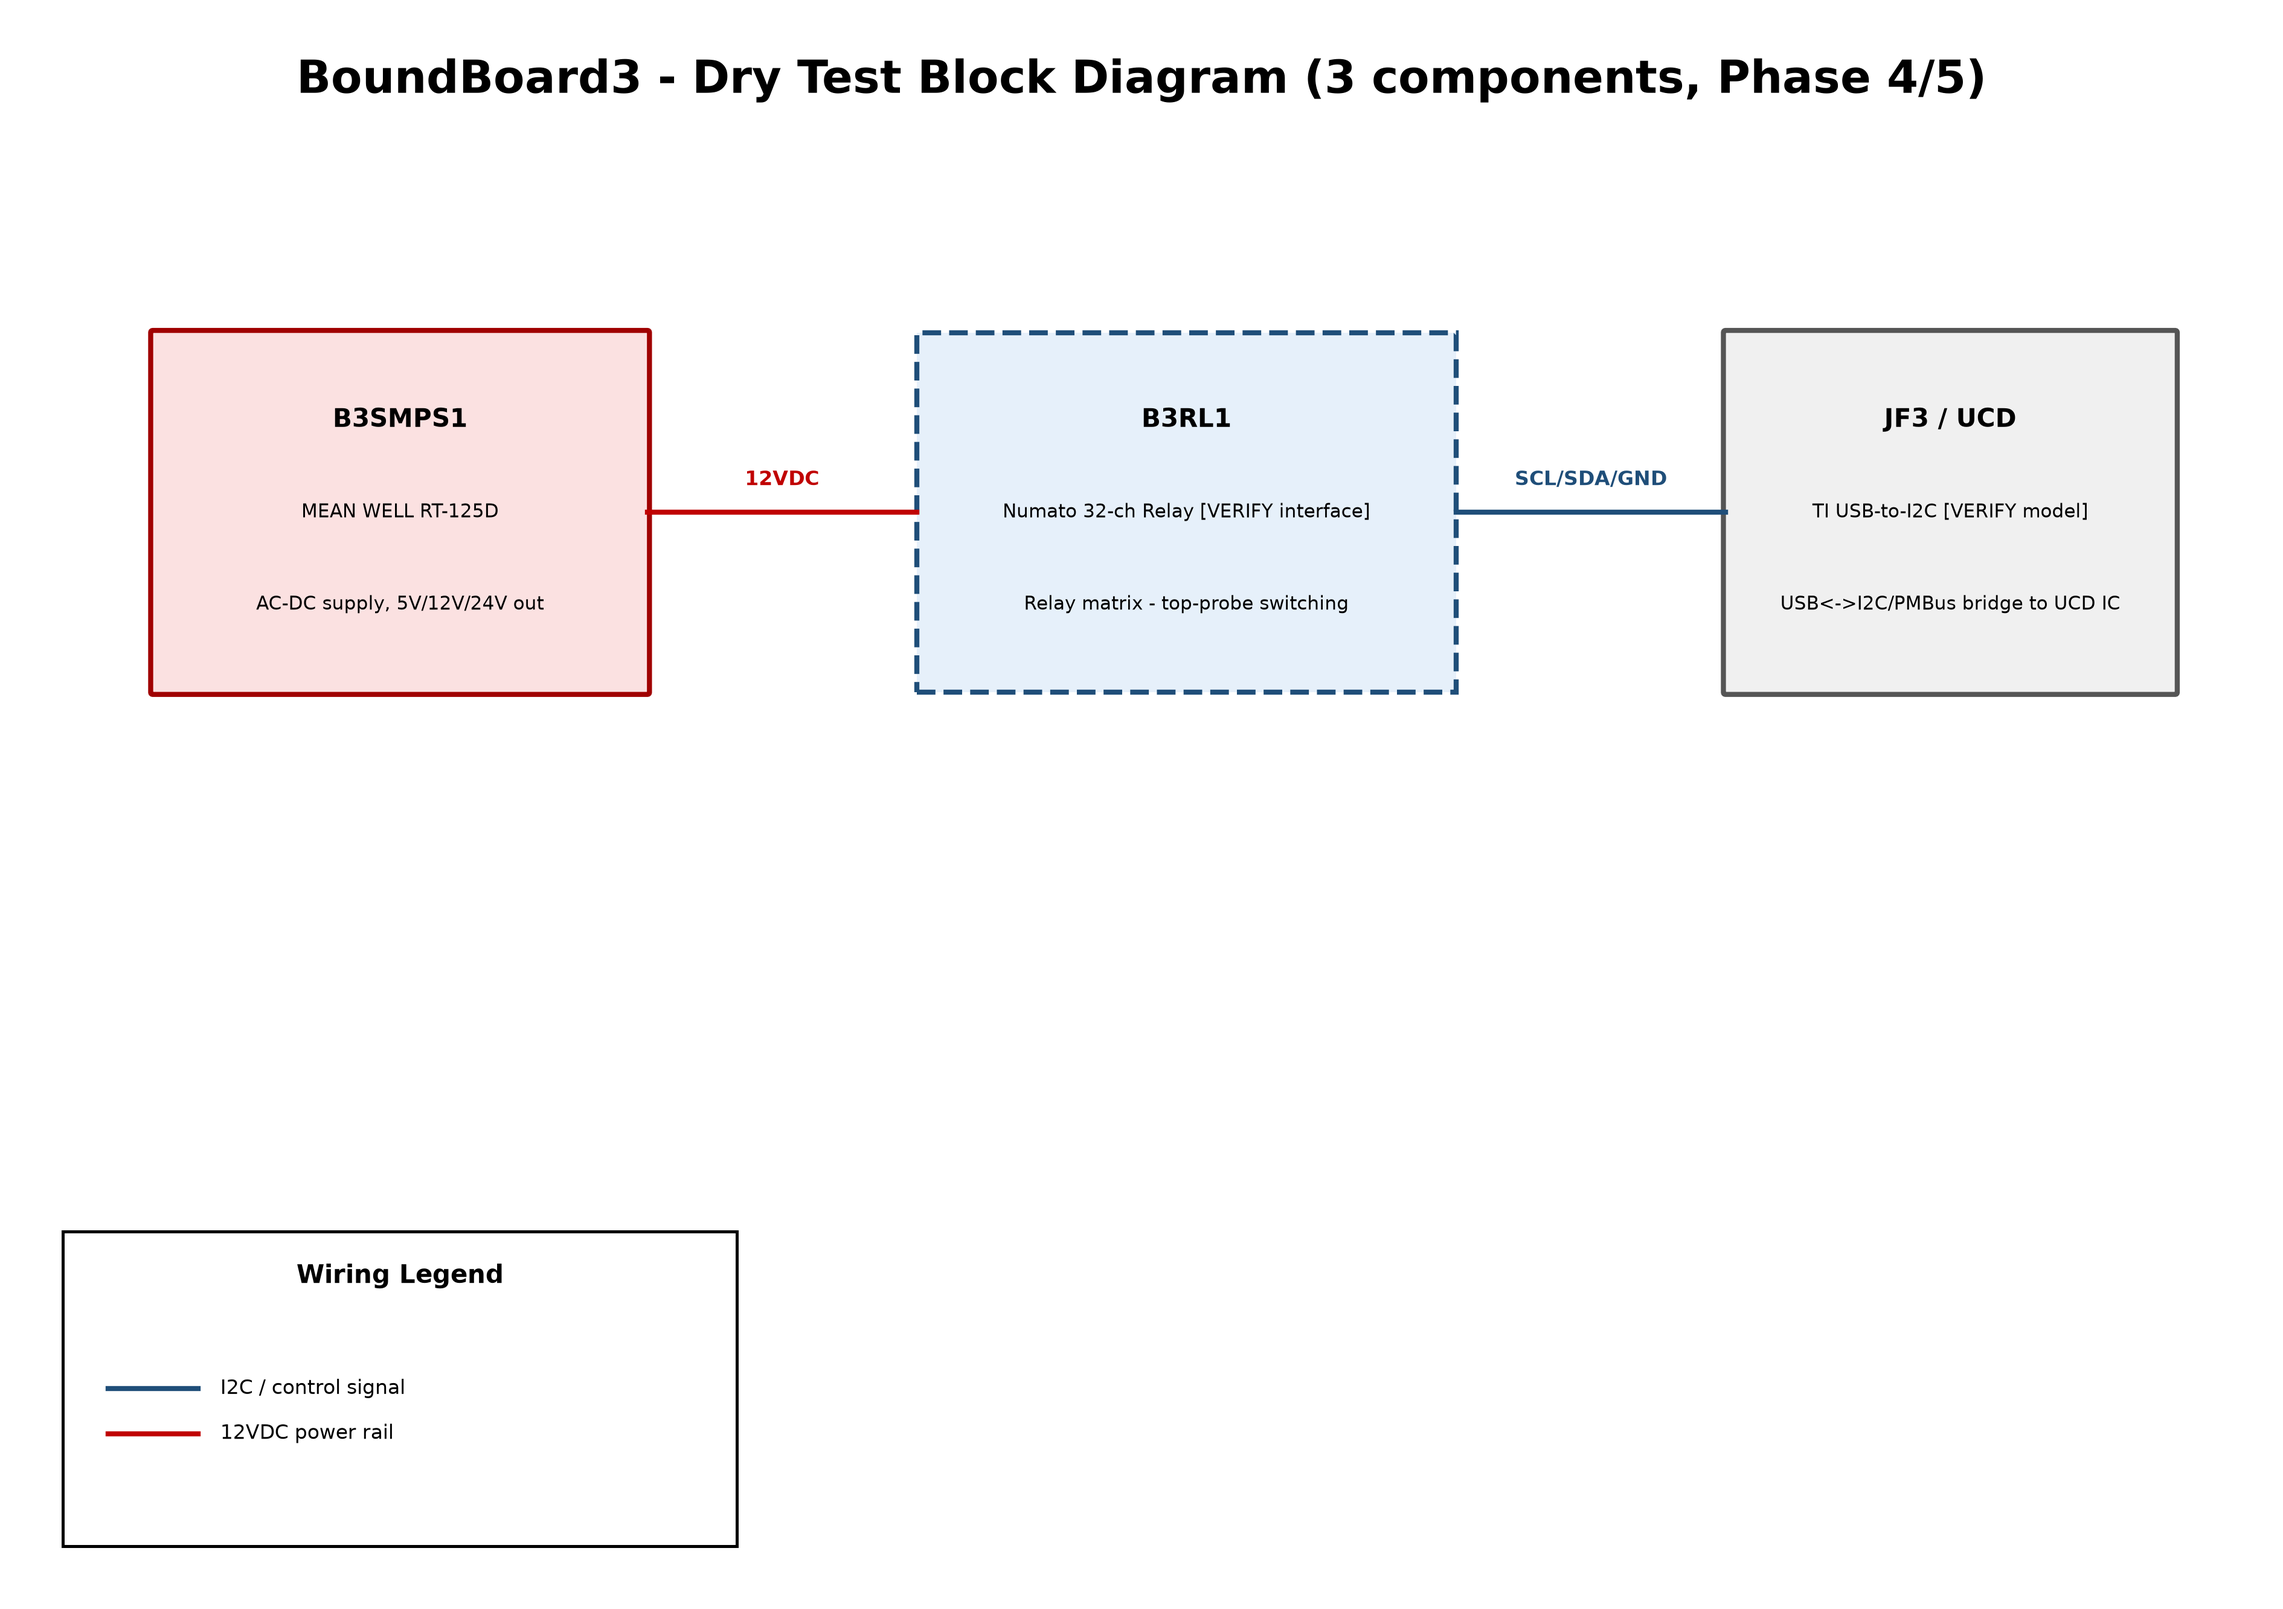
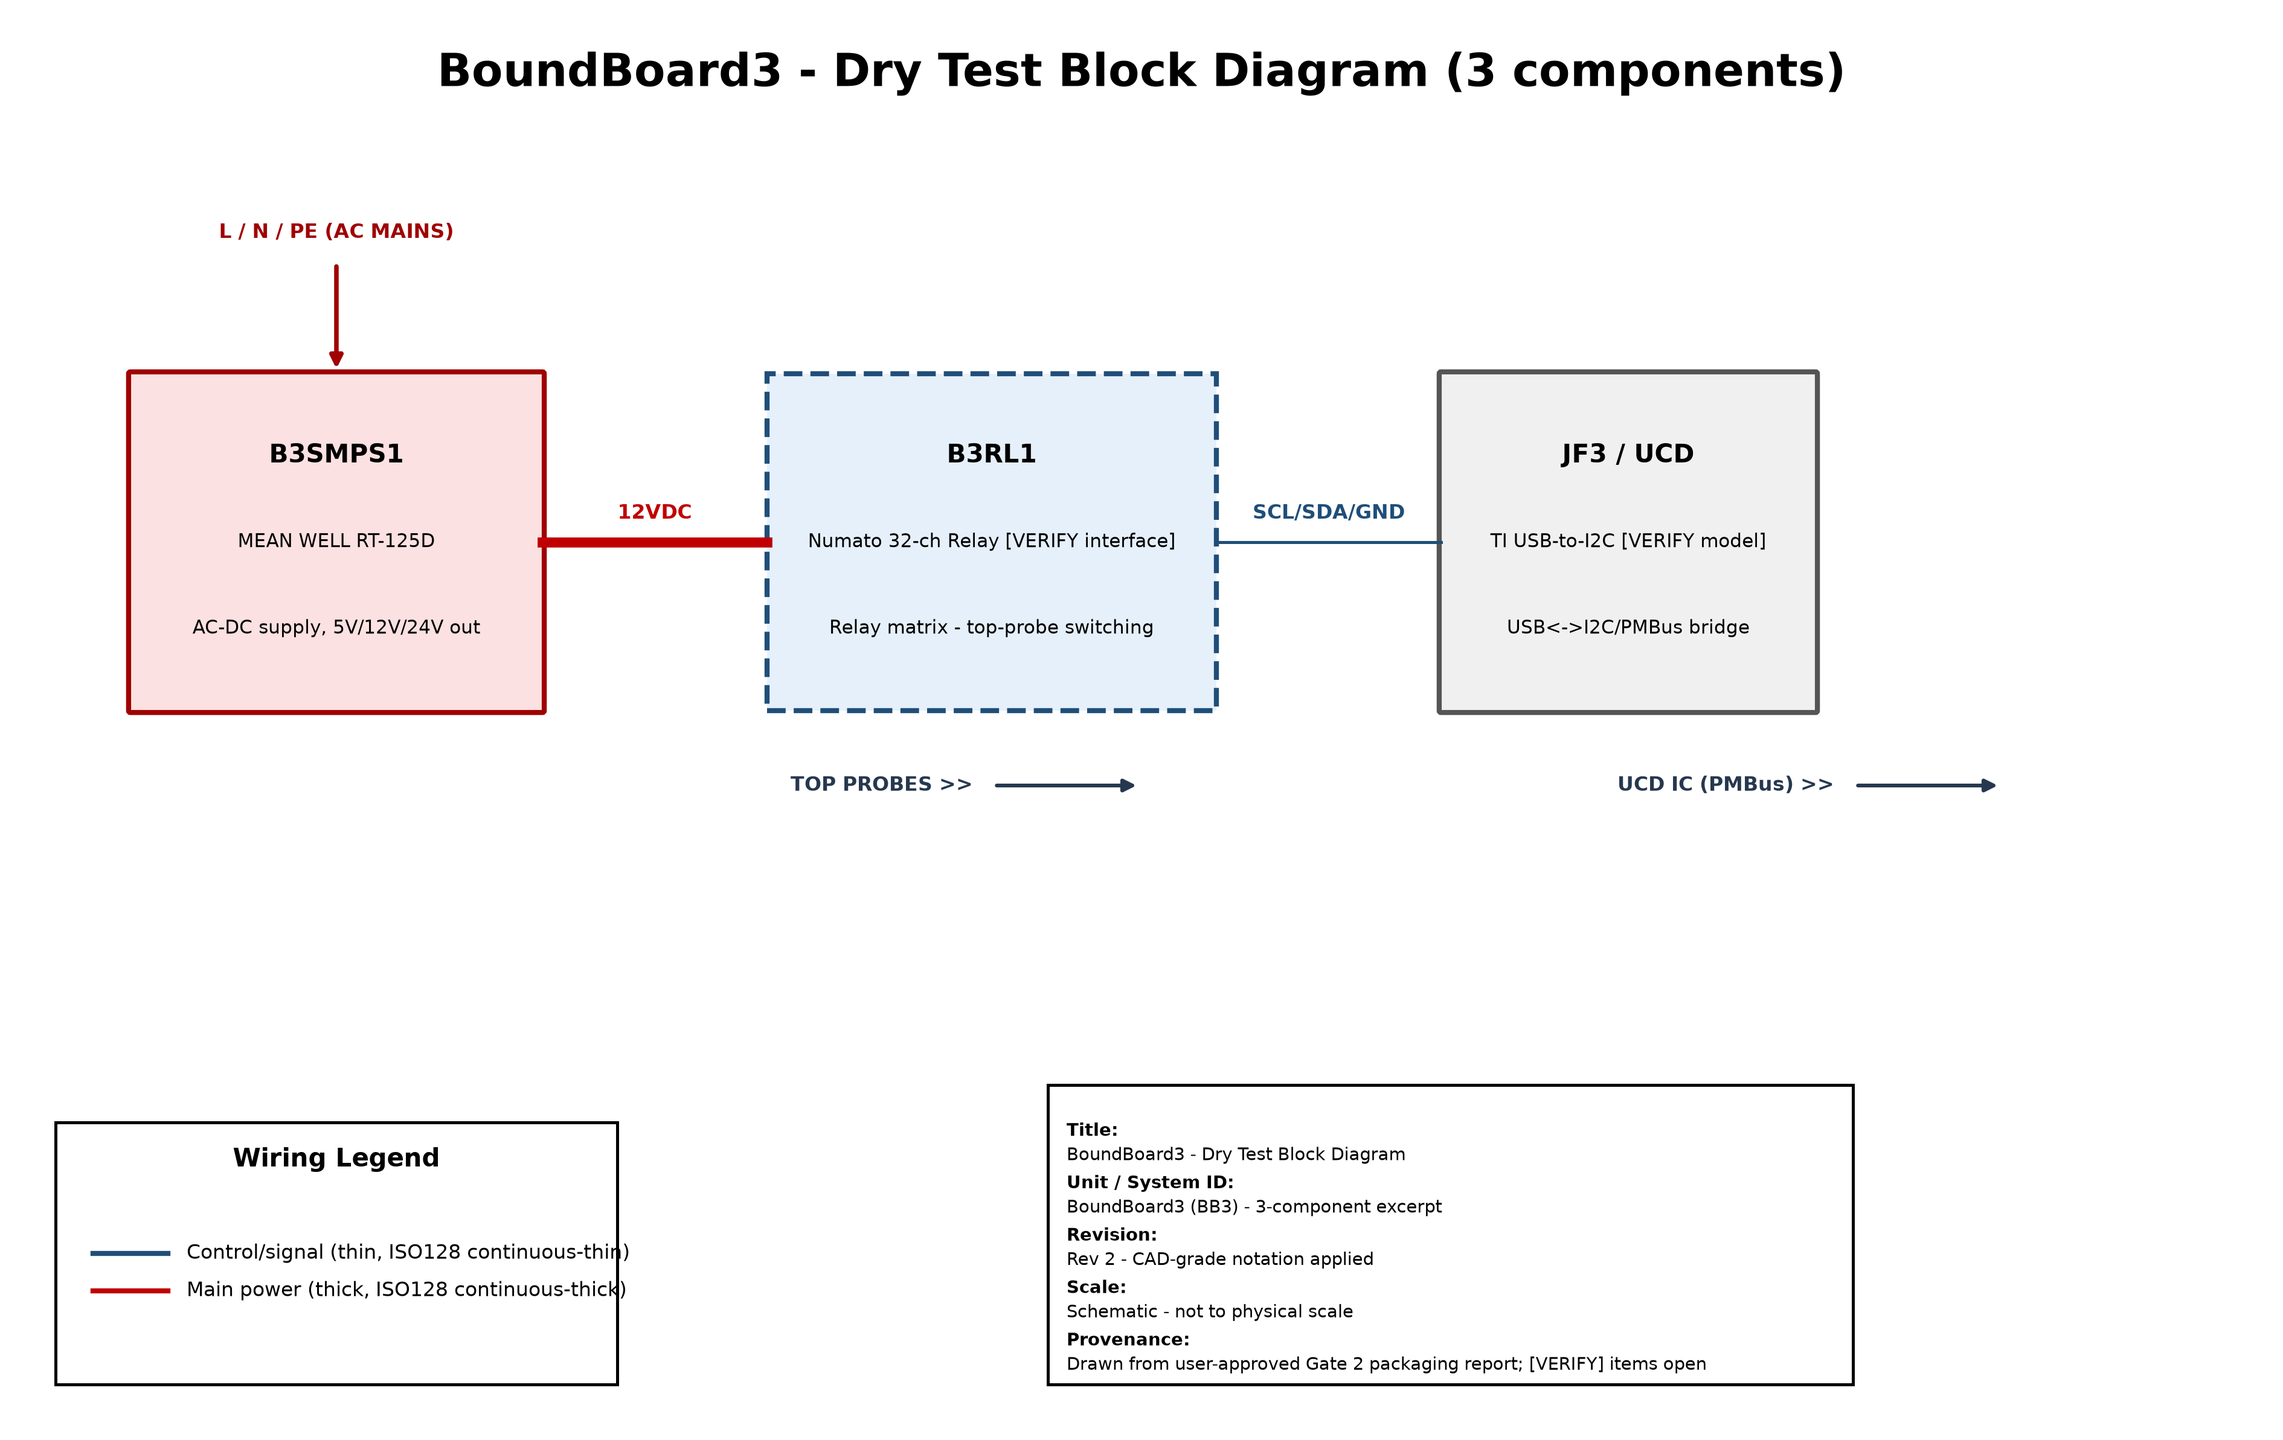
Regenerate BoundBoard3 dry-test diagram with CAD-grade notation (Rev 2)
Applies the conventions added after the last review: ISO 128 line
weights (thick main power vs. thin control/signal), pin-side
orientation (AC mains entering top of the SMPS block), off-page
connectors for signals continuing beyond this 3-block excerpt
(TOP PROBES, UCD IC/PMBus), and a proper title block (title, unit/
system ID, revision, scale, provenance).

Claude-Session: https://claude.ai/code/session_01LJ1mHQiucLTgPm4X83JBMN

diff --git a/projects/BoundBoard3/output/dry_test_block_diagram.py b/projects/BoundBoard3/output/dry_test_block_diagram.py
@@ -1,53 +1,91 @@
 """
-BoundBoard3 dry-test block diagram (3-component Phase 4/5 walkthrough).
+BoundBoard3 dry-test block diagram (3-component Phase 4/5 walkthrough) - Rev 2.
 
 Draws the three components confirmed in the Gate 2 packaging report as
 category-distinguishable blocks (see wiring-block-diagrams/references/conventions.md,
 "Block differentiation"): a power supply (rounded, red), a relay/switching module
 (dashed, blue), and an interface/adapter module (rounded, gray).
+
+Rev 2 additionally applies the CAD-grade notation added after the Rev 1 review:
+  - ISO 128 line weights (thick continuous = main power, thin continuous = control/signal)
+  - Pin-side orientation (power in at top, signal flow left->right)
+  - Off-page connectors for signals that continue beyond this partial 3-block diagram
+  - A title block (title, unit/system ID, revision, date, scale, provenance)
 """
 import sys
 import os
+import matplotlib.patches as patches
 
 sys.path.insert(0, os.path.join(os.path.dirname(__file__), "..", "..", "..",
                                  "wiring-block-diagrams", "scripts"))
 from fixture_diagrammer import FixtureDiagrammer  # noqa: E402
 
-d = FixtureDiagrammer("BoundBoard3 - Dry Test Block Diagram (3 components, Phase 4/5)", width=100, height=70)
+d = FixtureDiagrammer("BoundBoard3 - Dry Test Block Diagram (3 components)", width=120, height=75)
 
-# SMPS1 - power supply (left, per zoning convention)
+# --- SMPS1 - power supply (left, per zoning convention) ---------------------
 d.draw_categorized_block(
-    6, 40, 22, 16,
+    6, 38, 22, 18,
     tag="B3SMPS1",
     category="power",
     part="MEAN WELL RT-125D",
     func="AC-DC supply, 5V/12V/24V out",
 )
+# Pin-side orientation: power supply takes mains in at the TOP.
+d.ax.annotate("", xy=(17, 56), xytext=(17, 62),
+              arrowprops=dict(arrowstyle="-|>", color="#a00000", lw=1.8))
+d.ax.text(17, 63, "L / N / PE (AC MAINS)", ha="center", va="bottom",
+          fontsize=8, fontweight="bold", color="#a00000")
 
-# Numato 32ch relay board - relay/switching module (centre)
+# --- Numato 32ch relay board - relay/switching module (centre) --------------
 d.draw_categorized_block(
-    40, 40, 24, 16,
+    40, 38, 24, 18,
     tag="B3RL1",
     category="relay",
     part="Numato 32-ch Relay [VERIFY interface]",
     func="Relay matrix - top-probe switching",
 )
 
-# TI UCD interface adapter - interface/adapter module (right)
+# --- TI UCD interface adapter - interface/adapter module (right) ------------
 d.draw_categorized_block(
-    76, 40, 20, 16,
+    76, 38, 20, 18,
     tag="JF3 / UCD",
     category="interface",
     part="TI USB-to-I2C [VERIFY model]",
-    func="USB<->I2C/PMBus bridge to UCD IC",
+    func="USB<->I2C/PMBus bridge",
 )
 
-# Connectivity (topological, not to scale)
-d.route_orthogonal(28, 48, 40, 48, cls="power", label="12VDC")
-d.route_orthogonal(64, 48, 76, 48, cls="signal", label="SCL/SDA/GND")
+# --- Connectivity: ISO 128 line weights (main=thick, control=thin) ----------
+# Main power path: SMPS -> relay board (thick continuous per ISO 128 "main")
+d.route_orthogonal(28, 47, 40, 47, cls="power", label="12VDC", lw=4)
+# Control/signal path: relay board -> UCD interface (thin continuous per ISO 128 "control")
+d.route_orthogonal(64, 47, 76, 47, cls="signal", label="SCL/SDA/GND", lw=1.2)
 
-d.add_legend_item("power", "12VDC power rail")
-d.add_legend_item("signal", "I2C / control signal")
+# --- Off-page connectors: signals that continue beyond this 3-block excerpt -
+# The relay board's real job is switching top-probe test points elsewhere on the
+# full board (out of scope for this 3-component dry test) - show it leaving the page.
+d.draw_offpage_connector(52, 34, "TOP PROBES", direction="out", w=8)
+# The UCD interface's I2C/PMBus bus continues to the target UCD power-controller IC,
+# which is not one of the 3 components in this dry test - show it leaving the page.
+d.draw_offpage_connector(98, 34, "UCD IC (PMBus)", direction="out", w=8)
+
+d.add_legend_item("power", "Main power (thick, ISO128 continuous-thick)")
+d.add_legend_item("signal", "Control/signal (thin, ISO128 continuous-thin)")
+
+# --- Title block (conventions.md "Title block") ------------------------------
+tb_x, tb_y, tb_w, tb_h = 55, 2, 43, 16
+d.ax.add_patch(patches.Rectangle(
+    (tb_x, tb_y), tb_w, tb_h, facecolor="white", edgecolor="black", lw=1.2, zorder=5))
+title_lines = [
+    ("Title:", "BoundBoard3 - Dry Test Block Diagram"),
+    ("Unit / System ID:", "BoundBoard3 (BB3) - 3-component excerpt"),
+    ("Revision:", "Rev 2 - CAD-grade notation applied"),
+    ("Scale:", "Schematic - not to physical scale"),
+    ("Provenance:", "Drawn from user-approved Gate 2 packaging report; [VERIFY] items open"),
+]
+for i, (k, v) in enumerate(title_lines):
+    ty = tb_y + tb_h - 2 - i * 2.8
+    d.ax.text(tb_x + 1, ty, k, ha="left", va="top", fontsize=7, fontweight="bold", zorder=6)
+    d.ax.text(tb_x + 1, ty - 1.3, v, ha="left", va="top", fontsize=7, zorder=6)
 
 d.save(os.path.join(os.path.dirname(__file__), "dry_test_block_diagram.png"))
 print("wrote dry_test_block_diagram.png")
